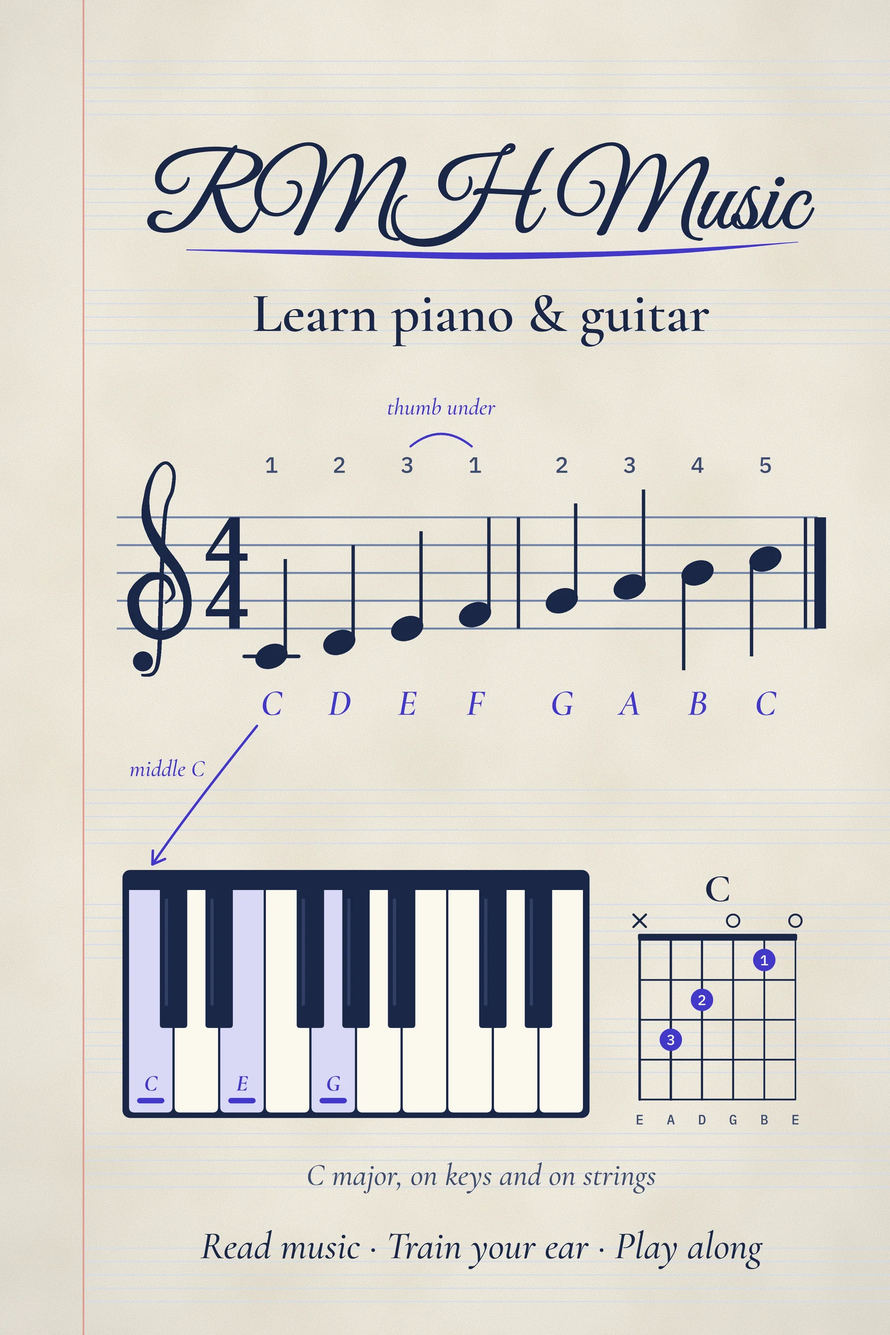
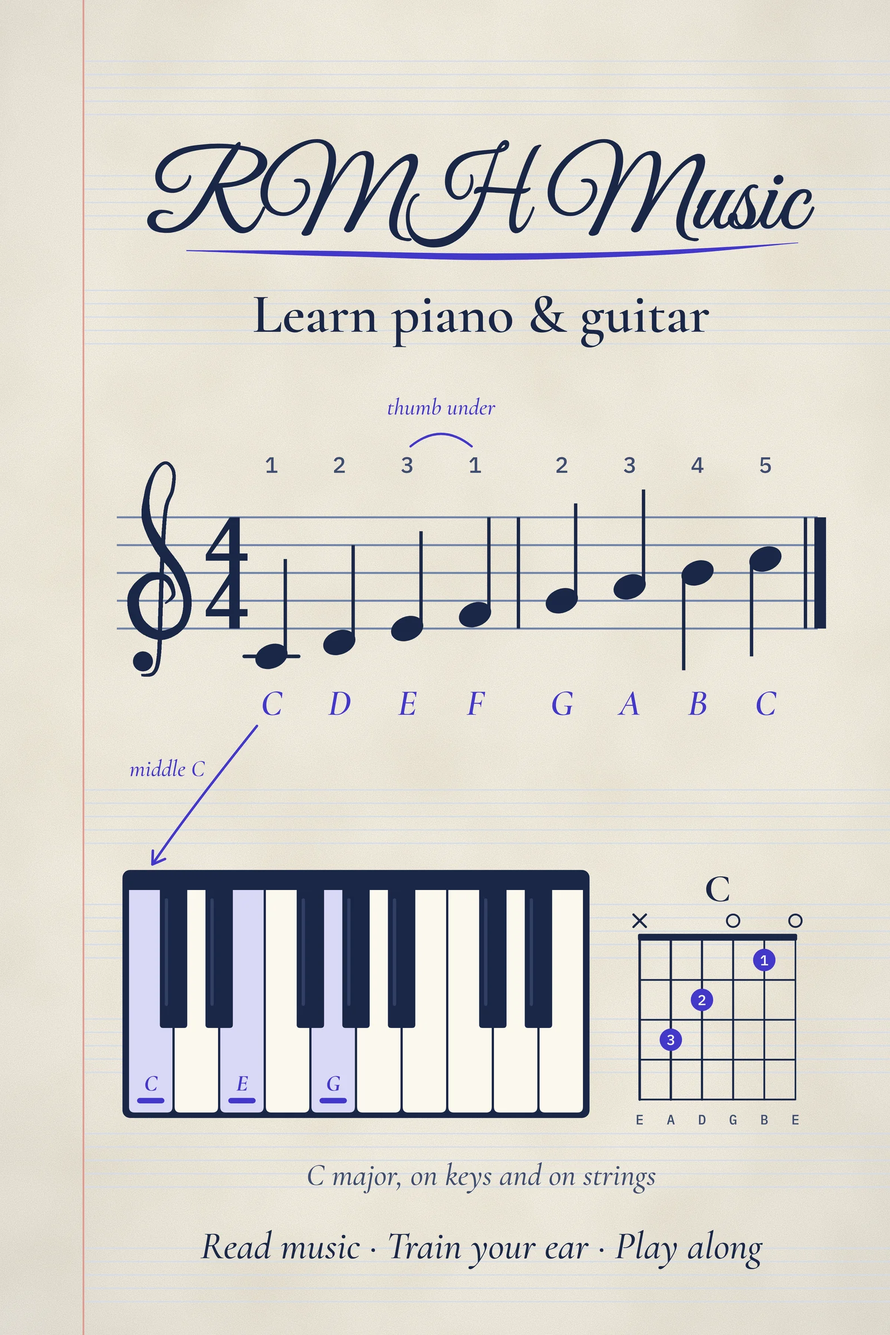
RMH Music art: narrow the wordmark's H and respace RMH | Music
Great Vibes' capital H is a wide looped letter; set in one text run it
dwarfed the R and M, crowded the M's last stroke and ran into 'Music'.
The wordmark is now laid out piece by piece from per-piece measured
advances/ink (H scaled to 0.8 horizontally, hand-set joins, a real word
gap). Card and logo regenerated; image variant hashes rebuilt.

Claude-Session: https://claude.ai/code/session_01TQ742wqbe81SUHkzJceqQR

diff --git a/lib/images/variants.gen.ts b/lib/images/variants.gen.ts
@@ -111,7 +111,7 @@ export const IMAGE_VARIANTS: Readonly<Record<string, ImageVariant>> = {
   "/images/games/logos/rmhdle.webp": { hash: '71f427ca', widths: [320, 640, 960] },
   "/images/games/logos/rmhhomes.webp": { hash: '1e8db401', widths: [320, 640, 960] },
   "/images/games/logos/rmhladder.webp": { hash: 'b0a4066a', widths: [320, 640, 960] },
-  "/images/games/logos/rmhmusic.webp": { hash: '97d1537d', widths: [320, 640, 960] },
+  "/images/games/logos/rmhmusic.webp": { hash: '4e6e5c7f', widths: [320, 640, 960] },
   "/images/games/logos/rmhstrategies.webp": { hash: 'cf6f6f9e', widths: [320, 640, 960] },
   "/images/games/logos/rmhstudio.webp": { hash: '66f0074d', widths: [320, 640, 960] },
   "/images/games/logos/rmhstudy.webp": { hash: '623b844a', widths: [320, 640, 960] },
@@ -136,7 +136,7 @@ export const IMAGE_VARIANTS: Readonly<Record<string, ImageVariant>> = {
   "/images/games/rmhdle.webp": { hash: '3de718c4', widths: [320, 640, 960, 1280] },
   "/images/games/rmhhomes.webp": { hash: '15f09bc5', widths: [320, 640, 960, 1280] },
   "/images/games/rmhladder.webp": { hash: '534bfa03', widths: [320, 640, 960, 1280] },
-  "/images/games/rmhmusic.webp": { hash: '1b54d1fa', widths: [320, 640, 960, 1280] },
+  "/images/games/rmhmusic.webp": { hash: '1e1a84ce', widths: [320, 640, 960, 1280] },
   "/images/games/rmhstrategies.webp": { hash: '58aaed77', widths: [320, 640, 960, 1280] },
   "/images/games/rmhstudio.webp": { hash: 'f30deeef', widths: [320, 640, 960, 1280] },
   "/images/games/rmhstudy.webp": { hash: 'a2a3b64f', widths: [320, 640, 960, 1280] },
